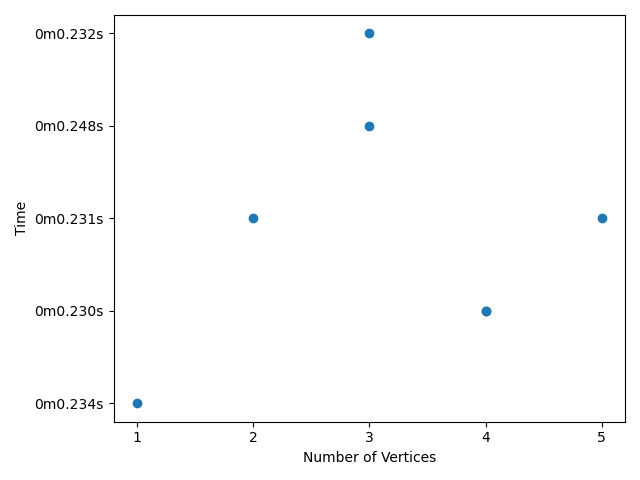
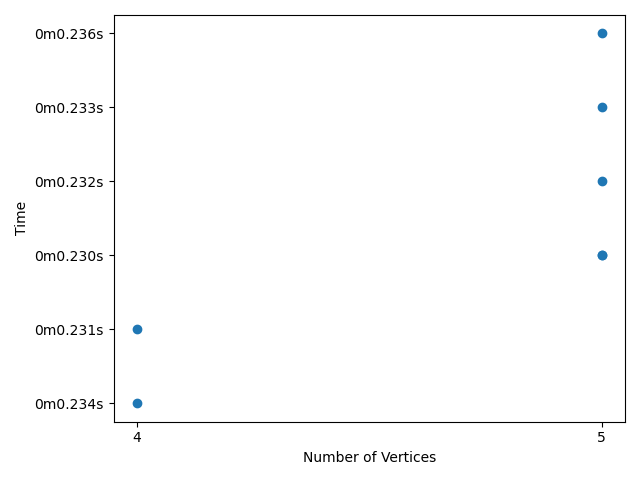
naive complexity testing

diff --git a/graph-instances/plot.py b/graph-instances/plot.py
@@ -4,15 +4,18 @@ import matplotlib.pyplot as plt
 import sys
 import re
 
-x = [1,4,2,4,3,5,3]
-y = []
+# For naive encoding
 
+x, y = [], []
 with open(sys.argv[1], "r") as file:
     for line in file:
         if re.search("SAT", line):
             print(line, end="")
         elif re.search("real", line):
             y.append(re.search(".m.*s$", line).group(0))
+        elif re.search("# Vertex", line):
+            num = int(re.search("# Vertex:.", line).group(0)[9:])
+            x.append(num)
         else:
             print("Error", file=sys.stderr)
 
@@ -21,9 +24,4 @@ plt.xlabel("Number of Vertices")
 plt.ylabel("Time")
 plt.tight_layout()
 plt.xticks(np.arange(min(x), max(x)+1, 1.0))
-plt.savefig("graph-instances/result.png")
-
-
-
-
-
+plt.savefig("graph-instances/naive_vertex.png")
